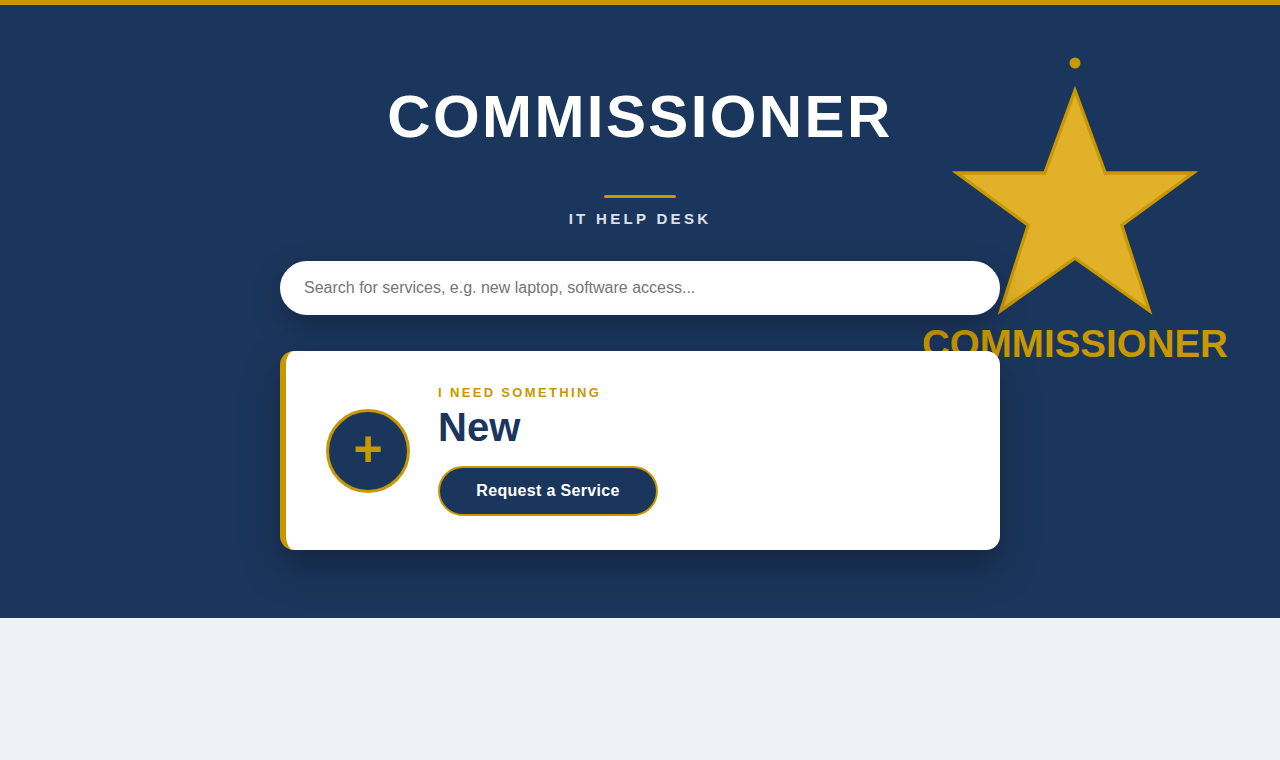
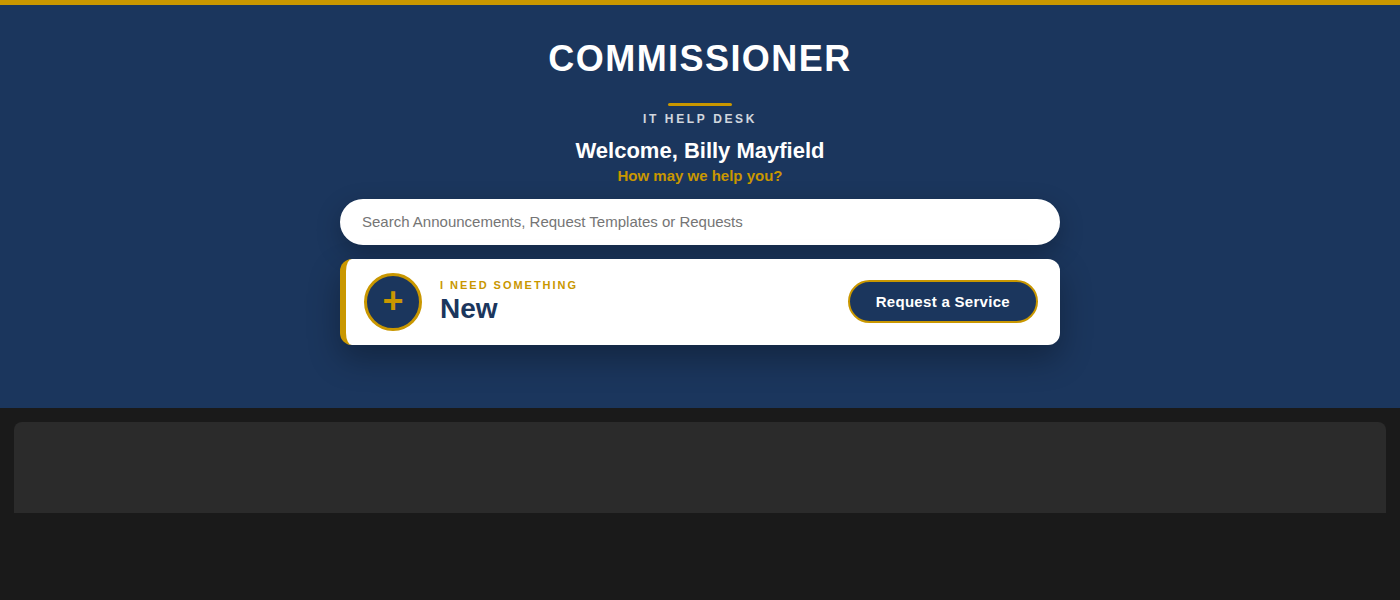
Compact requester home to fit SDP's fixed band height
Drop the star badge, add a welcome line with the username placeholder,
and lay the card out as one row so the whole widget fits in ~400px.

Claude-Session: https://claude.ai/code/session_015pU9vvdz6hrWUMmPn62hMD

diff --git a/itdesk-requester-portal/requester-home-sdp-safe.html b/itdesk-requester-portal/requester-home-sdp-safe.html
@@ -1,43 +1,45 @@
-<!-- Commissioner IT Help Desk - Requester Home. SDP-SAFE VERSION.
-     Uses only CSS that ServiceDesk Plus's editor keeps: no position, no flex alignment,
-     no transforms, no gradients, no rgba borders. Layout is plain blocks + one table.
-     First image URL = gold STAR (right side of the band). Second = white NAME LOGO (top). -->
-<div class="req-dasboard-maincontainer req-dasboard-itdesk-container" id="upper-part-ssp" style="display:block; box-sizing:border-box; width:100%; margin:0; padding:0; background-color:#1B365D; border:0; border-radius:0; overflow:hidden">
+<!-- Commissioner IT Help Desk - Requester Home. SDP-SAFE VERSION (v4, compact).
+     Fits inside the ~400px band SDP forces on this container. Only uses CSS the editor keeps.
+     The one image URL below is the white NAME LOGO. -->
+<div class="req-dasboard-maincontainer req-dasboard-itdesk-container" id="upper-part-ssp" style="display:block; box-sizing:border-box; width:100%; height:auto; min-height:0; margin:0; padding:0; background-color:#1B365D; border:0; border-radius:0; overflow:hidden">
 
-  <div style="display:block; box-sizing:border-box; width:100%; min-height:560px; margin:0; padding:52px 24px 68px; background-color:#1B365D; background-image:url(/app/itdesk/api/v3/ssp_background_images/273837000000728002/_images/88004); background-repeat:no-repeat; background-position:right 40px top 36px; background-size:330px auto; border-top:5px solid #C99700; text-align:center; font-family:'Segoe UI', Roboto, Helvetica, Arial, sans-serif">
+  <div style="display:block; box-sizing:border-box; width:100%; margin:0; padding:18px 24px 22px; background-color:#1B365D; border-top:5px solid #C99700; text-align:center; font-family:'Segoe UI', Roboto, Helvetica, Arial, sans-serif">
 
-    <div aria-label="Commissioner" style="display:block; width:100%; max-width:560px; height:120px; margin:0 auto; background-image:url(/app/itdesk/api/v3/ssp_background_images/273837000000728002/_images/88004); background-repeat:no-repeat; background-position:center; background-size:contain"></div>
-    <div aria-hidden="true" style="display:block; width:72px; height:3px; margin:18px auto 12px; background-color:#C99700; border-radius:2px"></div>
-    <p style="display:block; margin:0 0 34px; color:#FFFFFF; opacity:0.85; font-size:15px; font-weight:600; letter-spacing:0.22em; text-transform:uppercase">IT Help Desk</p>
+    <div aria-label="Rodney Ellis, Commissioner" style="display:block; width:100%; max-width:420px; height:72px; margin:0 auto; background-image:url(/app/itdesk/api/v3/ssp_background_images/273837000000728002/_images/88004); background-repeat:no-repeat; background-position:center; background-size:contain"></div>
+    <div aria-hidden="true" style="display:block; width:64px; height:3px; margin:8px auto 6px; background-color:#C99700; border-radius:2px"></div>
+    <p style="display:block; margin:0 0 12px; color:#FFFFFF; opacity:0.8; font-size:12px; font-weight:600; letter-spacing:0.22em; text-transform:uppercase; line-height:1.2">IT Help Desk</p>
 
-    <div class="search-req-dashboard" id="search-req-dashboard_dummy" style="display:block; width:100%; max-width:720px; margin:0 auto 36px; padding:0; float:none">
+    <p style="display:block; margin:0 0 2px; color:#FFFFFF; font-size:22px; font-weight:700; line-height:1.2">Welcome, {{{user-username}}}</p>
+    <p style="display:block; margin:0 0 14px; color:#C99700; font-size:15px; font-weight:600; line-height:1.2">How may we help you?</p>
+
+    <div class="search-req-dashboard" id="search-req-dashboard_dummy" style="display:block; width:100%; max-width:720px; margin:0 auto 14px; padding:0; float:none">
       <div class="sdpod-input-wrapper req-dashboard-mainsearch" style="display:block; width:100%; margin:0; padding:0">
-        <input input-action="search" class="sdpod-input-large" data-clickable="true" tabindex="0" placeholder="{{{ssp-search-placeholder}}}" style="display:block; box-sizing:border-box; width:100%; height:54px; margin:0; padding:0 22px; border:2px solid #FFFFFF; border-radius:999px; background-color:#FFFFFF; color:#1B365D; font-size:16px; box-shadow:0 10px 30px rgba(0,0,0,0.25); outline:none"/>
+        <input input-action="search" class="sdpod-input-large" data-clickable="true" tabindex="0" placeholder="{{{ssp-search-placeholder}}}" style="display:block; box-sizing:border-box; width:100%; height:46px; margin:0; padding:0 20px; border:2px solid #FFFFFF; border-radius:999px; background-color:#FFFFFF; color:#1B365D; font-size:15px; box-shadow:0 8px 24px rgba(0,0,0,0.25); outline:none"/>
       </div>
     </div>
 
     <div class="req-dashboard-innerwrapper" style="display:block; width:100%; max-width:720px; margin:0 auto; padding:0; text-align:left">
       <div class="req-dashboard-card-wrapper request-service-box" style="display:block; width:100%; margin:0; padding:0; float:none">
-        <div class="req-dashboard-card req-new" style="display:block; box-sizing:border-box; width:100%; height:auto; min-height:0; margin:0; padding:34px 40px; background-color:#FFFFFF; border:0; border-left:6px solid #C99700; border-radius:14px; box-shadow:0 18px 40px rgba(0,0,0,0.3)">
+        <div class="req-dashboard-card req-new" style="display:block; box-sizing:border-box; width:100%; height:auto; min-height:0; margin:0; padding:14px 22px 14px 18px; background-color:#FFFFFF; border:0; border-left:6px solid #C99700; border-radius:12px; box-shadow:0 14px 32px rgba(0,0,0,0.3)">
           <table style="width:100%; border-collapse:collapse; border:0; margin:0; padding:0">
             <tr>
-              <td style="width:84px; padding:0 28px 0 0; vertical-align:middle; border:0">
-                <div aria-hidden="true" style="display:block; box-sizing:border-box; width:84px; height:84px; margin:0; border-radius:50%; background-color:#1B365D; border:3px solid #C99700; color:#C99700; font-size:50px; font-weight:700; line-height:74px; text-align:center">+</div>
+              <td style="width:58px; padding:0 18px 0 0; vertical-align:middle; border:0">
+                <div aria-hidden="true" style="display:block; box-sizing:border-box; width:58px; height:58px; margin:0; border-radius:50%; background-color:#1B365D; border:3px solid #C99700; color:#C99700; font-size:36px; font-weight:700; line-height:50px; text-align:center">+</div>
               </td>
               <td style="padding:0; vertical-align:middle; border:0">
                 <div class="req-dashboard-innercontent" style="display:block; width:auto; margin:0; padding:0; text-align:left">
-                  <span class="req-dashboard-inner-head" style="display:block; color:#C99700; font-size:13px; font-weight:700; letter-spacing:0.18em; text-transform:uppercase; margin:0 0 6px">
+                  <span class="req-dashboard-inner-head" style="display:block; color:#C99700; font-size:11px; font-weight:700; letter-spacing:0.18em; text-transform:uppercase; margin:0 0 2px; line-height:1.2">
                     {{{ssp-i-need-something}}}
                   </span>
-                  <span class="req-dashboard-inner-h2" style="display:block; color:#1B365D; font-size:40px; font-weight:800; line-height:1.05; margin:0 0 18px">
+                  <span class="req-dashboard-inner-h2" style="display:block; color:#1B365D; font-size:28px; font-weight:800; line-height:1.1; margin:0">
                     {{{ssp-new}}}
                   </span>
-                  <span style="display:block">
-                    <button class="req-dashboard-innerbutton" click-action="load-service-templates-popup" id="create_service_btn" style="display:inline-block; box-sizing:border-box; min-width:220px; height:auto; margin:0; padding:14px 30px; background-color:#1B365D; color:#FFFFFF; border:2px solid #C99700; border-radius:999px; font-size:16px; font-weight:700; letter-spacing:0.02em; cursor:pointer; text-align:center">
-                      {{{ssp-request-a-service}}}
-                    </button>
-                  </span>
                 </div>
+              </td>
+              <td style="padding:0 0 0 16px; vertical-align:middle; text-align:right; border:0; white-space:nowrap">
+                <button class="req-dashboard-innerbutton" click-action="load-service-templates-popup" id="create_service_btn" style="display:inline-block; box-sizing:border-box; min-width:190px; height:auto; margin:0; padding:11px 26px; background-color:#1B365D; color:#FFFFFF; border:2px solid #C99700; border-radius:999px; font-size:15px; font-weight:700; letter-spacing:0.02em; cursor:pointer; text-align:center">
+                  {{{ssp-request-a-service}}}
+                </button>
               </td>
             </tr>
           </table>
